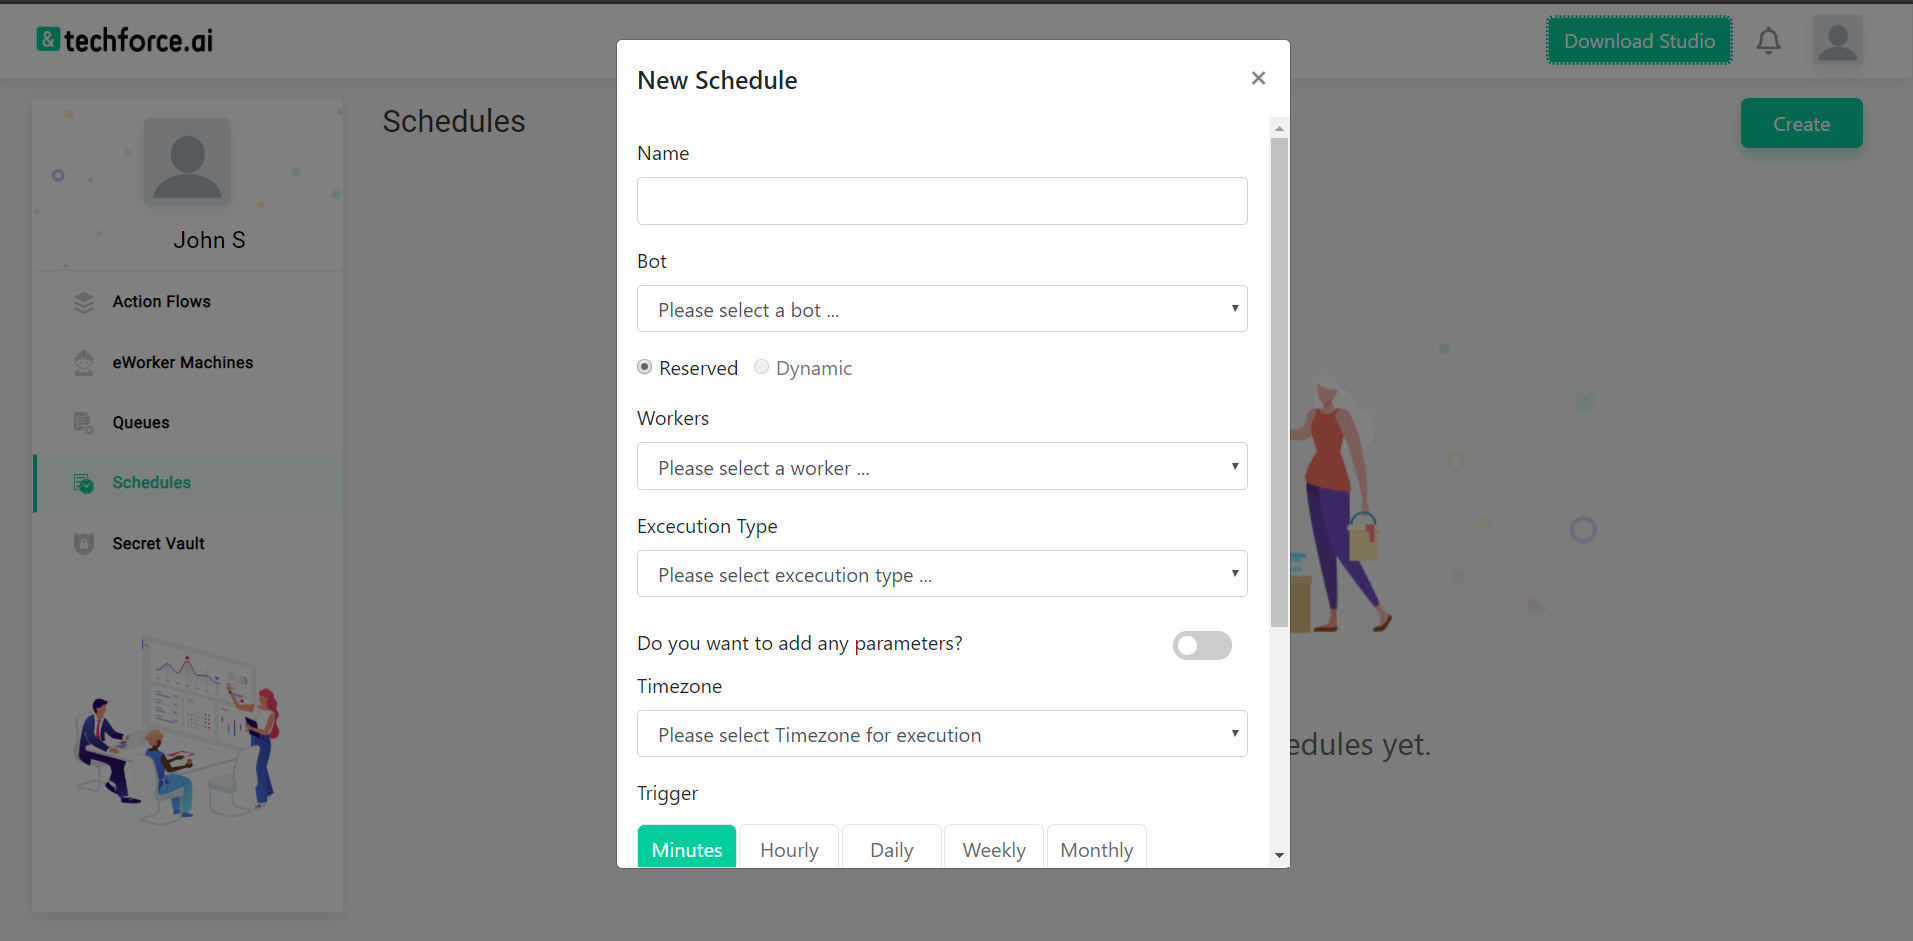
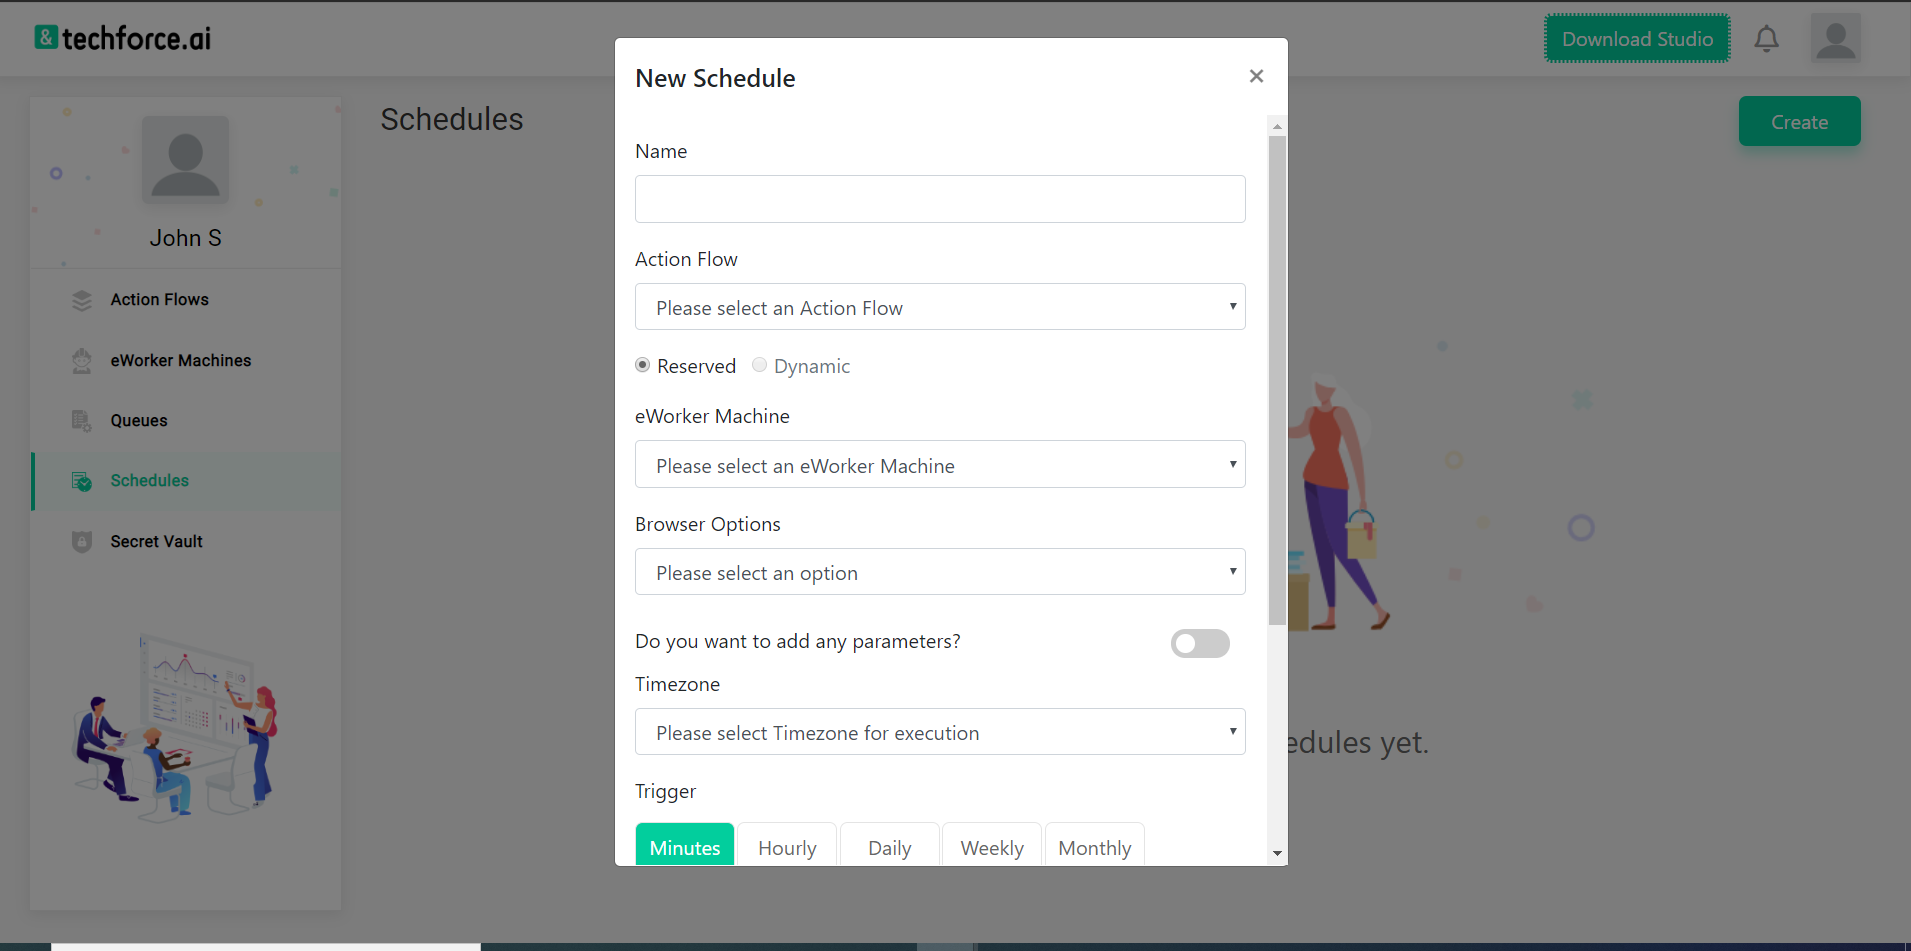
cdsssnsa

diff --git a/_layouts/default.html b/_layouts/default.html
@@ -2371,10 +2371,10 @@
                              <p style="text-align:center;"><strong>Figure:  Process execution </strong></p>
                              <p>3. Select the Execution target Type (like Reserved). If the RESERVED option is selected as the execution type, then specify the eWorker machine.</p>
                              <img src="{{ '/assets/images/doc-img60.png' | relative_url }}"alt="image" class="topImg" style="width:400px; border: 1px solid green;margin-left:25%;margin-top:10px;margin-bottom:10px;">
-                              <p style="text-align:center;"><strong>Figure: select eworker machine</strong></p>
+                             <p style="text-align:center;"><strong>Figure: select eworker machine</strong></p>
                              <img src="{{ '/assets/images/doc-img61.png' | relative_url }}"alt="image" class="topImg" style="width:400px; border: 1px solid green;margin-left:25%;margin-top:10px;margin-bottom:10px;">
-                               <p style="text-align:center;"><strong>Figure: select execution type </strong></p>
-                             <p>Note: Remove the note text.</p>
+                             <p style="text-align:center;"><strong>Figure: select execution type </strong></p>
+
                           </div>
 
                           <div id="WorkerManagement"  class="page-section">
@@ -2390,19 +2390,19 @@
                             <p>1.The worker category is the type of eWorker machine that is going to be registered. Currently, only the “Reserved” type can be created.</p>
                             <h5>Reserved:</h5>
                             <p>2.If a eWorker machine is created as “Reserved” then the flows can be executed only on that machine.</p>
-                            <h5>Worker creation:</h5>
-                            <p>1.This is the eWorker machine screen before a worker is created in Worker management.</p>
+                            <h5>Creating a eWorker machine:</h5>
+                            <p>1.This is the eWorker Machine screen before the action flows execution environment is created.</p>
                              <img src="{{ '/assets/images/doc-img81.png' | relative_url }}"alt="image" class="topImg" style="border:1px solid green; margin-left:0%;margin-top:10px;margin-bottom:10px;">
                              <p style="text-align:center;"><strong>Figure: Worker screen </strong></p>
                             <p><span class="numbers">2.</span> To create a worker, open the TechForce.ai studio, which will create an icon in the task tray. Open the task tray, Right-click on the studio icon. Click on settings and register. The following screen displays.</p>
                             <img src="{{ '/assets/images/doc-img82.png' | relative_url }}"alt="image" class="topImg" style="border:1px solid green; margin-left:0%;margin-top:10px;margin-bottom:10px;">
-                              <p style="text-align:center;"><strong>Figure: Register your eWorker machine </strong></p>
+                            <p style="text-align:center;"><strong>Figure: Register your eWorker machine </strong></p>
                             <p><span class="numbers">3.</span>Enter the details and click on SUBMIT. A message confirming successful submission will appear. This creates the worker. After creating the worker the details of the eWorker machine like name, host and so on can be seen.</p>
                             <p><span class="numbers">4.</span>The following image shows the screen of the eWorker  created, also the details of the created eWorker machine can be seen.</p>
                             <img src="{{ '/assets/images/doc-img83.png' | relative_url }}"alt="image" class="topImg" style="border:1px solid green; margin-left:0%;margin-top:10px;margin-bottom:10px;">
                             <p style="text-align:center;"><strong>Figure: eWorker machine detals </strong></p>
-                             <h5>Delete Worker</h5>
-                            <p><span class="numbers">1.</span>To delete an eWorker machine created earlier, just click on the DELETE icon which is available in the details of the machine.</p>
+                             <h5>Delete eWorker Machine</h5>
+                            <p><span class="numbers">1.</span>To delete an eWorker machine created, just click on the DELETE icon which is available in the details of the machine.</p>
                             <img src="{{ '/assets/images/doc-img84.png' | relative_url }}"alt="image" class="topImg" style="border:1px solid green; margin-left:0%;margin-top:10px;margin-bottom:10px;">
                              <p style="text-align:center;"><strong>Figure: Worker screen </strong></p>
                             <p><span class="numbers">2.</span>On the next screen, click on YES to confirm the deletion of the worker on the machine.</p>
@@ -2462,8 +2462,8 @@
                           <p> Choose the “Action Flow" that you want to Schedule.</p>
                           <h5><span class="numbers">3.</span>Reserved</h5>
                           <p>Select the eWorker machine in which the execution should be done.</p>
-                          <h5><span class="numbers">4.</span>Workers</h5>
-                          <p>Select the worker in which the execution should be done</p>
+                          <h5><span class="numbers">4.</span>eWorkers Machine</h5>
+                          <p>Select the eWorker Machine in which the execution should be done.</p>
                           <h5><span class="numbers">5.</span>Execution Type</h5>
                           <p>Select the execution type either to execute in Chrome or headless mode.</p>
                           <h5><span class="numbers">6.</span>Timezone</h5>
@@ -2584,8 +2584,8 @@
                          </div>
 
                          <div id="Registeringworker"  class="page-section">
-                             <h4 class="purple"><span class="numbers"></span> Registering worker with EM console</h4>
-                          <a href="javascript: scrollToForm4();">Refer Worker creation from WorkerManagement</a>
+                             <h4 class="purple"><span class="numbers"></span> Registering eworker machine with EM console</h4>
+                          <a href="javascript: scrollToForm4();">Refer eworker machine creation from WorkerManagement</a>
                           </div>
 
                          <div id="TriggeringBots"  class="page-section">
